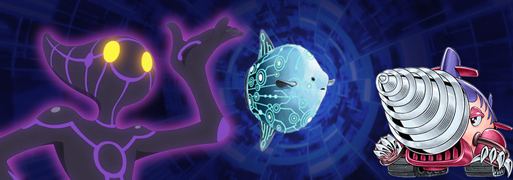
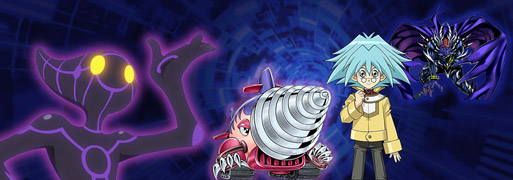
Updated Datamine article and other thumbnails

diff --git a/_posts/content/news/2018/03/2018-03-16-datamined-discoveries.md b/_posts/content/news/2018/03/2018-03-16-datamined-discoveries.md
@@ -25,7 +25,9 @@ With another maintenance update comes new discoveries; **the identity of the 'su
 
 ![Banner](/img/content/news/2018/03/datamined-discoveries/banner-tea-event.png)
 
-Téa will be the next ['superb'](/news/february-2018/in-game-updates/) roaming duelist with a deck upgrade, bringing with her a powerful Counter Trap Fairy deck! These could be some of the drops to look forward to (RNG willing!): 
+Téa will be the next ['superb'](/news/february-2018/in-game-updates/) roaming duelist with a deck upgrade, bringing with her a powerful Counter Trap Fairy deck! This event is expected to take place from March 22nd - 28th. 
+ 
+These could be some of the drops to look forward to (RNG willing!): 
 
 [deck](Meltiel, Sage of the Sky; Harvest Angel of Wisdom; Radiant Jeral; Zeradias, Herald of Heaven; Wingweaver; Guiding Light; Photon Booster; Constellar Belt; Tenderness; Divine Punishment)
 
@@ -33,12 +35,20 @@ Téa will be the next ['superb'](/news/february-2018/in-game-updates/) roaming d
 
 #### **[Superforms](/authors/superforms/)** says: 
 
-These cards provide support for the Counter Trap Fairy archetype which was previously only supported by {Bountiful Artemis}.
-- {Meltiel, Sage of the Sky} (UR): The core monster of Counter Fairies. Counter Traps are a tricky thing to slide into a deck in general because they can’t always deal with established threats (like a [REZ](/tier-list/red-eyes-zombies/), for example). Meltiel gives you extra ways to deal with things that don’t get directly destroyed by your Counter Traps.
-- {Harvest Angel of Wisdom} (SR): Slow effect, but a decent beater.
+- {Meltiel, Sage of the Sky} (UR): The core monster of Counter Fairies. Counter Traps are a tricky thing to slide into a deck in general because they can’t always deal with established threats (like a [REZ](/tier-list/red-eyes-zombies/), for example). Meltiel gives you extra ways to deal with things that don’t get directly destroyed by your Counter Traps. This is incredibly important because it gives you a way to mitigate the effects of going second. The LP gain is also not insignificant, giving you more fuel for {Seven Tools of the Bandit} and {Solemn Scolding}.
+- {Divine Punishment} (SR): Negates a ton of stuff while the Field Spell ({The Sanctuary in the Sky}) is up. A very versatile negation card with no discard cost. Divine Punishment notably cannot stop already face-up backrow ({Sea Stealth Attack}, {Beast Rising}, {Call of the Archfiend}) nor can it stop normal summons (like Solemn Scolding can). 
+- {Harvest Angel of Wisdom} (SR): Could see use in more defensive Counter Fairy decks that run less Counter Traps and take advantage of Harvest’s recycling effect.
 - {Zeradias, Herald of Heaven} (SR): {Elemental HERO Captain Gold} for Counter Fairies. Searches the Field Spell ({The Sanctuary in the Sky}), adding consistency, and extra copies work as big beaters.
-- {Radiant Jeral} (SR): Decent wall and boosts your LP if discarded for a Counter Trap cost with {The Sanctuary in the Sky} on the field. However, pretty terrible relative to the other cards.
+- {Radiant Jeral} (SR): Decent wall and boosts your LP if discarded for a Counter Trap cost with Sanctuary on the field, but pretty terrible relative to the other cards.
 - {Photon Booster} (R): The first thing that comes to mind is the {Ra's Disciple} OTK deck, although there will likely be other uses.
+
+Older cards that work well with these include {Bountiful Artemis} and {Cards from the Sky}. Also note that {The Sanctuary in the Sky} is an R reward from Ranked Duels, so that may be a worthwhile use for your R tickets this season.
+ 
+On the deck as a whole:
+- Counter Fairies can be incredibly strong when (1) they open well, (2) they go first, and (3) their opponent does not have access to big Normal Summoned monsters. Combo and effect reliant decks like [Hazy Flame](/tier-list/hazy-flame/) and [Sylvans](/tier-list/sylvans/) can struggle against Fairies, while [Dinos](/tier-list/dinos/) and [Fishes](/tier-list/fishes/) should dominate them with big 4-star monsters.
+- As many of these cards do nothing without each other, {Duel, Standby!} or {Restart} seem necessary for consistency. Other skills like {Fairy’s Smile} or {Endless Trap Hell} will likely have issues with bricking.
+ 
+Conclusion: This is an event worth farming; our first in a while! While Counter Fairies will almost certainly not be Tier 1, they have definite potential to impact the meta. All of Téa’s UR/SR drops are worth getting three copies of, except for {Radiant Jeral}.
 
 ### Miscellaneous Cards
 

diff --git a/_posts/content/news/2018/02/2018-02-27-datamined-discoveries.md b/_posts/content/news/2018/02/2018-02-27-datamined-discoveries.md
@@ -109,12 +109,10 @@ The event is expected to start mid to late February.
 
 Files for what appear to be the new cards from the upcoming *Dr. Crowler's Tricky Tests* event have been discovered!
 
-[gallery 2/3](/img/content/news/2018/02/datamined-discoveries/crowler-banner.png, /img/content/news/2018/02/datamined-discoveries/crowler-level-40-rewards.png)
+[gallery 2/3](/img/content/news/2018/02/datamined-discoveries/crowler-banner.png, /img/content/news/2018/02/datamined-discoveries/crowler-level-40-rewards.jpg)
 
 <br>
 <br>
-
-**Note:** The missing card in the image above is {Biofalcon}.
 
 **New** obtainable drop rewards found:
 

diff --git a/_posts/content/events/2018/02/2018-02-20-dr-vellian-crowlers-tricky-tests.md b/_posts/content/events/2018/02/2018-02-20-dr-vellian-crowlers-tricky-tests.md
@@ -3,7 +3,7 @@ layout: blog
 date: 2018-02-24
 title: Dr. Vellian Crowler's Tricky Tests
 author: Freeska
-image: /img/content/events/2018/02/dr-vellian-crowlers-tricky-tests/thumbnail.png
+image: /img/content/events/2018/02/dr-vellian-crowlers-tricky-tests/thumbnail.jpg
 category: event
 ended: true
 comments: true
